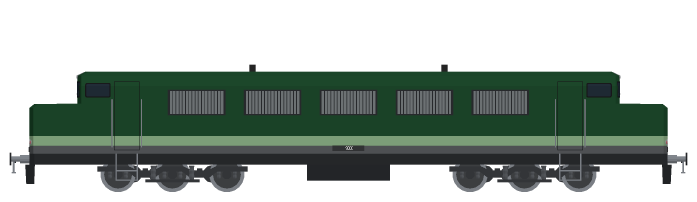
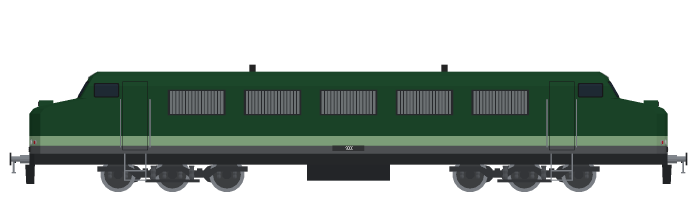
UK trains: tell the Class 55, 37 and 47 fronts apart; detail the 1938 stock's body
The Deltic gets a short nose sloping down to a rounded front, a headcode box on
its brow and a windscreen leaning well back; the Class 37 a longer square bonnet,
flat on top, with its centre headcode box and an almost upright windscreen; the
Class 47 the headcode panel in the cab roof's dome. The cab door and side window
move back with a set-back cab. The 1938 tube stock gets polished window frames,
the rain strip under the roof's edge and the roof's panel seams.

Claude-Session: https://claude.ai/code/session_01BW4qmT9yGyhFhcNpQBBkWX

diff --git a/generator/ukLocos.ts b/generator/ukLocos.ts
@@ -5,8 +5,8 @@
 
 import type { MeshBuilder } from "./meshBuilder.ts";
 import type { ParamValues, ProceduralDesign } from "./design.ts";
-import { boxLocoLod, buildBoxLoco } from "./boxLocoKit.ts";
-import { c } from "./czElectricKit.ts";
+import { boxLocoLod, buildBoxLoco, type EndItem, type LocoSpec, type RoofBox, type SideItem, type Table } from "./boxLocoKit.ts";
+import { c, lerpTable } from "./czElectricKit.ts";
 import { DIESEL_LOCO_CATALOG, ELECTRIC_LOCO_CATALOG } from "./cd163.ts";
 import { liveryParams, liverySpec, locoGame, paramsOf, type Liveries } from "./frLocos.ts";
 import type { WorldLoco } from "./worldLocoKit.ts";
@@ -25,7 +25,7 @@ const bands = (body: Body, number: string, ...list: Array<[number, string]>): Wo
 const GREEN = "#1f4d2e", LIGHT_GREEN = "#8fb48a", BR_BLUE = "#1d3f80";
 
 const C55: Body = { length: 21.18, W: 1.36, y0: 1.2, roof: 3.76, nose: "bonnets", bonnet: 1.5, hoodTop: 2.75, bogies: coCo(5.5, 1.7, 0.55), exhausts: [-3.0, 3.0], room: { kind: "grilles", n: 5, y: [2.4, 3.2] } };
-const C37: Body = { length: 18.75, W: 1.36, y0: 1.2, roof: 3.76, nose: "bonnets", bonnet: 1.8, hoodTop: 2.8, bogies: coCo(4.9, 1.75, 0.55), exhausts: [0], room: { kind: "grilles", n: 4, y: [2.4, 3.2] } };
+const C37: Body = { length: 18.75, W: 1.36, y0: 1.2, roof: 3.76, nose: "bonnets", bonnet: 2.05, hoodTop: 2.8, bogies: coCo(4.9, 1.75, 0.55), exhausts: [0], room: { kind: "grilles", n: 4, y: [2.4, 3.2] } };
 const C47: Body = { length: 19.38, W: 1.36, y0: 1.2, roof: 3.76, nose: "raked", bogies: coCo(5.25, 1.75, 0.57), exhausts: [-1.0], room: { kind: "grilles", n: 5, y: [2.4, 3.2] } };
 const C66: Body = { length: 21.35, W: 1.36, y0: 1.2, roof: 3.76, nose: "raked", bogies: coCo(5.6, 1.8, 0.53), exhausts: [-1.2], room: { kind: "grilles", n: 5, y: [2.4, 3.2] } };
 const C86: Body = { length: 17.83, W: 1.36, y0: 1.25, roof: 3.85, nose: "flat", bogies: [[-4.6, [-1.45, 1.45], 0.58], [4.6, [-1.45, 1.45], 0.58]], pantograph: "singleArm", pantographX: 4.3, room: { kind: "grilles", n: 4, y: [2.4, 3.2] } };
@@ -38,9 +38,87 @@ const L: Record<string, Liveries> = {
   c86: { brBlue: { title: "BR blue", loco: bands(C86, "86 101", [4.2, BR_BLUE]) }, intercity: { title: "InterCity", loco: bands(C86, "86 229", [1.75, "#3a3d40"], [1.85, "#c8102e"], [2.7, "#f1f1ee"], [4.2, "#3a3d40"]) } },
 };
 
+/**
+ * The three cab fronts drawn apart (the kit's bonnet and raked ends are one shape
+ * each): the Deltic's short nose sloping down to a rounded front, a headcode box
+ * on its brow and the windscreen leaning well back; the Class 37's long square
+ * bonnet, flat on top with a rounded front edge, its centre headcode box at the
+ * front and the windscreen almost upright; the Class 47's raked end with the
+ * headcode panel in the cab roof's dome over the windscreen.
+ */
+interface Front {
+  /** The end's centre line from the frame's |x| N, the shell's bottom y0 and the roof. */
+  tip: (N: number, y0: number, roof: number) => Table;
+  /** The end's plan below the bonnet's top (default the kit's). */
+  bonnetPlan?: { top: number; plan: (w: number) => ReadonlyArray<readonly [number, number]> };
+  /** Boxes on the bonnet at both ends, in the body's top colour. */
+  boxes?: (N: number, body: string) => RoofBox[];
+  /** End items replacing the kit's top headlight. */
+  brow?: (spec: LocoSpec) => EndItem[];
+}
+
+const box = (name: string, x0: number, x1: number, w: number, y: readonly [number, number], mat: string): RoofBox[] =>
+  [{ name, x: [x0, x1], w: [w, w * 0.94], y, mat }, { name: `${name} rear`, x: [-x1, -x0], w: [w, w * 0.94], y, mat }];
+
+/** Where a bonnet's cab front stands, from the frame's |x|. */
+const cabOf = (N: number, b: Body) => N - (b.bonnet ?? 1.6);
+
+const FRONTS: Record<string, Front> = {
+  c55: {
+    tip: (N, y0, roof) => {
+      const top = C55.hoodTop!, cab = cabOf(N, C55);
+      return [[y0, N], [top - 0.3, N], [top - 0.15, N - 0.12], [top - 0.07, N - 0.3], [top + 0.17, cab + 0.05], [top + 0.19, cab], [roof - 0.15, cab - 0.38], [roof, cab - 0.62]];
+    },
+    bonnetPlan: { top: C55.hoodTop! + 0.18, plan: (w) => [[0, 0], [w * 0.62, 0.09], [w, 0.34]] },
+    boxes: (N, body) => [...box("headcode box", N - 0.75, N - 0.3, 0.5, [2.5, 2.86], body), ...box("headcode glass", N - 0.31, N - 0.27, 0.4, [2.69, 2.82], "plate")],
+  },
+  c37: {
+    tip: (N, y0, roof) => {
+      const top = C37.hoodTop!, cab = cabOf(N, C37);
+      return [[y0, N], [top - 0.2, N], [top - 0.06, N - 0.07], [top, N - 0.2], [top + 0.01, cab], [roof - 0.15, cab - 0.1], [roof, cab - 0.35]];
+    },
+    bonnetPlan: { top: C37.hoodTop! + 0.005, plan: (w) => [[0, 0], [w * 0.8, 0.04], [w, 0.2]] },
+    boxes: (N, body) => [...box("headcode box", N - 0.62, N - 0.17, 0.55, [C37.hoodTop! - 0.05, C37.hoodTop! + 0.3], body), ...box("headcode glass", N - 0.18, N - 0.14, 0.44, [C37.hoodTop! + 0.03, C37.hoodTop! + 0.24], "plate")],
+  },
+  c47: {
+    tip: (N, y0, roof) => [[y0, N], [y0 + (roof - y0) * 0.4, N], [roof - 0.3, N - 0.5], [roof - 0.1, N - 0.72], [roof, N - 1.0]],
+    brow: (spec) => {
+      const head = Math.max(...spec.endItems.filter((i) => i.kind === "window").map((i) => i.y[1]));
+      return [{ kind: "paint", name: "headcode panel", z: [-0.42, 0.42], y: [head + 0.06, head + 0.27], mat: "plate", layer: 1 }];
+    },
+  },
+};
+
+/** The wall's end at height y: the tip less the plan's corner setback. */
+const wallAt = (s: LocoSpec, y: number) => {
+  const plan = s.endPlan(y, lerpTable(s.hw, y));
+  return lerpTable(s.tip, y) - plan[plan.length - 1]![1];
+};
+
+/** A spec with its own cab front; the cab door and side window move back until they stay on the side wall. */
+function withFront(spec: LocoSpec, f: Front | undefined): LocoSpec {
+  if (!f) return spec;
+  const N = spec.beam, roof = spec.hw[spec.hw.length - 1]![0];
+  const kitPlan = spec.endPlan;
+  const bp = f.bonnetPlan;
+  const out: LocoSpec = {
+    ...spec,
+    tip: f.tip(N, spec.y0, roof),
+    endPlan: bp ? (y, w) => (y < bp.top ? bp.plan(w) : kitPlan(y, w)) : kitPlan,
+    roofItems: [...spec.roofItems, ...(f.boxes?.(N, spec.side[spec.side.length - 1]![2]) ?? [])],
+    endItems: f.brow ? [...spec.endItems.filter((i) => i.name !== "top headlight"), ...f.brow(spec)] : spec.endItems,
+  };
+  const cab = spec.sideItems.filter((i) => i.name === "cab door" || i.name === "cab window");
+  const need = Math.max(0, ...cab.map((i) => i.x[1] + 0.12 - Math.min(...[i.y[0], (i.y[0] + i.y[1]) / 2, i.y[1]].map((y) => wallAt(out, y)))));
+  if (need > 0) out.sideItems = spec.sideItems.map((i): SideItem => (cab.includes(i) ? { ...i, x: [i.x[0] - need, i.x[1] - need] } : i));
+  return out;
+}
+
 const P = Object.fromEntries(Object.entries(L).map(([k, l]) => [k, liveryParams(l)]));
-const b = (k: string, v?: ParamValues): MeshBuilder => buildBoxLoco(liverySpec(L[k]!, P[k]!, v));
-const lod = (k: string, v?: ParamValues): MeshBuilder => boxLocoLod(liverySpec(L[k]!, P[k]!, v));
+/** A UK locomotive's box-loco spec, its own cab front applied (c55, c37, c47, c66, c86). */
+export const ukLocoSpec = (k: string, v?: ParamValues): LocoSpec => withFront(liverySpec(L[k]!, P[k]!, v), FRONTS[k]);
+const b = (k: string, v?: ParamValues): MeshBuilder => buildBoxLoco(ukLocoSpec(k, v));
+const lod = (k: string, v?: ParamValues): MeshBuilder => boxLocoLod(ukLocoSpec(k, v));
 
 export function brClass55(v?: ParamValues): MeshBuilder { return b("c55", v); }
 export function brClass55Lod(v?: ParamValues): MeshBuilder { return lod("c55", v); }

diff --git a/test/ukLocoFronts.test.ts b/test/ukLocoFronts.test.ts
@@ -1,0 +1,55 @@
+// The British diesels' own cab fronts (generator/ukLocos.ts FRONTS): the Class 55
+// Deltic's short sloping nose and raked windscreen, the Class 37's long square
+// bonnet, both with headcode boxes, and the Class 47's raked end with the headcode
+// panel over its windscreen; the cab door and side window stay on the side wall.
+// See docs/models/uk-trains.md.
+import { describe, expect, it } from "vitest";
+import { ukLocoSpec } from "../generator/ukLocos";
+import { lerpTable } from "../generator/czElectricKit";
+import type { LocoSpec } from "../generator/boxLocoKit";
+
+const roofOf = (s: LocoSpec) => s.hw[s.hw.length - 1]![0];
+/** How far the end's centre line at height y stands back from the buffer beam. */
+const back = (s: LocoSpec, y: number) => s.beam - lerpTable(s.tip, y);
+const wallAt = (s: LocoSpec, y: number) => {
+  const plan = s.endPlan(y, lerpTable(s.hw, y));
+  return lerpTable(s.tip, y) - plan[plan.length - 1]![1];
+};
+
+describe("British diesel cab fronts", () => {
+  const c55 = ukLocoSpec("c55"), c37 = ukLocoSpec("c37"), c47 = ukLocoSpec("c47");
+
+  it("gives the Class 37 a longer bonnet than the Deltic, and the Deltic the more raked windscreen", () => {
+    const cab = (s: LocoSpec) => back(s, 3.1);
+    expect(cab(c37)).toBeGreaterThan(cab(c55) + 0.4);
+    const rake = (s: LocoSpec) => back(s, roofOf(s) - 0.2) - back(s, 3.0);
+    expect(rake(c55)).toBeGreaterThan(0.25);
+    expect(rake(c37)).toBeLessThan(0.15);
+  });
+
+  it("slopes the Deltic's bonnet down to the front and keeps the Class 37's flat", () => {
+    // the Deltic's top falls across the bonnet; the 37's stays at one height to the rounded edge
+    expect(lerpTable(c55.tip, 2.8)).toBeLessThan(c55.beam - 0.5);
+    expect(lerpTable(c55.tip, 2.8)).toBeGreaterThan(c55.beam - 1.4);
+    expect(back(c37, 2.79)).toBeLessThan(0.25);
+    expect(back(c37, 2.82)).toBeGreaterThan(2.0);
+  });
+
+  it("puts a headcode box on each bonnet at both ends, and the panel over the Class 47's windscreens", () => {
+    for (const s of [c55, c37]) {
+      const boxes = s.roofItems.filter((r) => r.name.startsWith("headcode box"));
+      expect(boxes.map((r) => Math.sign(r.x[0])).sort()).toEqual([-1, 1]);
+    }
+    expect(c47.endItems.some((i) => i.name === "headcode panel")).toBe(true);
+    expect(c47.endItems.some((i) => i.name === "top headlight")).toBe(false);
+  });
+
+  it("keeps the cab door and side window on the side wall in every livery", () => {
+    for (const [k, liveries] of [["c55", ["twoToneGreen", "brBlue"]], ["c37", ["green", "brBlue", "railfreight"]], ["c47", ["twoToneGreen", "brBlue", "intercity"]]] as const)
+      for (const livery of liveries) {
+        const s = ukLocoSpec(k, { livery });
+        for (const it of s.sideItems.filter((i) => i.name === "cab door" || i.name === "cab window"))
+          for (const y of [it.y[0], (it.y[0] + it.y[1]) / 2, it.y[1]]) expect(it.x[1], `${k} ${livery} ${it.name}`).toBeLessThanOrEqual(wallAt(s, y) - 0.12 + 1e-9);
+      }
+  });
+});

diff --git a/generator/lu1938Parts.ts b/generator/lu1938Parts.ts
@@ -104,6 +104,39 @@ function cabFront(m: MeshBuilder, b: SliceBody, X: (d: number) => number): void 
   });
 }
 
+/** The frame strips' width around a window, and the rain strip under the shoulder. */
+const FRAME = 0.035;
+const GUTTER = [2.265, 2.295] as const;
+/** The roof's transverse panel seams: their pitch and width. */
+const SEAM_PITCH = 1.3, SEAM_W = 0.03;
+
+/**
+ * What breaks up the plain red: a polished frame around every side window, the
+ * rain strip along the side under the roof's edge, and the roof's transverse panel
+ * seams (the photographs in assets/lu-1938-stock/).
+ */
+function bodyDetail(m: MeshBuilder, b: SliceBody, X: (d: number) => number, car: { end: boolean; length: number }): void {
+  const [y0, y1] = TUBE_WINDOW;
+  const windows = (car.end ? TUBE_LAYOUT.end : TUBE_LAYOUT.middle).windows;
+  const front = car.end ? 0.25 : 0.2, back = car.length - 0.2;
+  for (const s of [1, -1]) {
+    m.scope("window frames", () => {
+      for (const [d0, d1] of windows)
+        for (const [a, e, v0, v1] of [[d0 - FRAME, d1 + FRAME, y1, y1 + FRAME], [d0 - FRAME, d1 + FRAME, y0 - FRAME, y0], [d0 - FRAME, d0, y0, y1], [d1, d1 + FRAME, y0, y1]] as const)
+          sidePanel(m, b, X, s, "winFrame", a, e, v0, v1, 0.005, 0.012);
+    });
+    m.scope("rain strip", () => sidePanel(m, b, X, s, "gutter", front, back, GUTTER[0], GUTTER[1], 0.012, 0.02));
+    m.scope("roof seams", () => {
+      const n = Math.floor((back - front) / SEAM_PITCH);
+      const start = (front + back - (n - 1) * SEAM_PITCH) / 2;
+      for (let i = 0; i < n; i++) {
+        const d = start + i * SEAM_PITCH;
+        crownPane(m, b, X, s, "seam", [d - SEAM_W / 2, d + SEAM_W / 2], [0, b.w(d) * 0.97], 0.003);
+      }
+    });
+  }
+}
+
 /** The fittings of a car: the cab front and cab side doors on the driving car, the underfloor equipment on both. */
 export function tubeFittings(m: MeshBuilder, b: SliceBody, X: (d: number) => number, car: { end: boolean; length: number; trucks: readonly number[] }): void {
   if (car.end) {
@@ -116,6 +149,7 @@ export function tubeFittings(m: MeshBuilder, b: SliceBody, X: (d: number) => num
       }
     });
   }
+  m.scope("body detail", () => bodyDetail(m, b, X, car));
   m.scope("underfloor", () => {
     // control and resistance boxes between the bogies: the 1938 Stock's equipment is all under the floor
     const c = car.length / 2;

diff --git a/test/lu1938.test.ts b/test/lu1938.test.ts
@@ -3,6 +3,7 @@
 import { describe, expect, it } from "vitest";
 import { lu1938Stock, TUBE1938 } from "../generator/ukUnits";
 import { TUBE_LAYOUT } from "../generator/lu1938Parts";
+import { collectTriangles, parseGlb } from "../generator/glbTriangles";
 
 const bounds = (pos: number[]) => {
   const lo = [Infinity, Infinity, Infinity], hi = [-Infinity, -Infinity, -Infinity];
@@ -49,5 +50,14 @@ describe("London 1938 Stock", () => {
       expect(m.triangleCount()).toBeLessThanOrEqual(16000);
     }
     expect(TUBE1938.centredBogies).toBe(true);
+  });
+
+  it("breaks up the plain red: window frames, the rain strip and the roof's panel seams on every car", () => {
+    for (const unit of ["endCar", "middleCar"]) {
+      const { json, bin } = parseGlb(lu1938Stock({ unit }).toGlb("tube"));
+      const mats = new Map<string, number>();
+      for (const t of collectTriangles(json, bin)) mats.set(t.material, (mats.get(t.material) ?? 0) + 1);
+      for (const mat of ["winFrame", "gutter", "seam"]) expect(mats.get(mat) ?? 0, `${unit} ${mat}`).toBeGreaterThan(0);
+    }
   });
 });

diff --git a/generator/ukUnits.ts b/generator/ukUnits.ts
@@ -165,7 +165,7 @@ export const TUBE1938: ShinkansenSeries = {
       palette: {
         ltRed: c("#c3161c", 0.35), ltRoof: c("#8c3a30", 0.7), skirtG: c("#232426", 0.8), cabMask: c("#1d1f22", 0.3),
         lettering: c("#c9a24a", 0.35), blind: c("#f1efe6", 0.5), lineMagenta: c("#c0267e"), lineBlue: c("#1c2f6e"),
-        vent: c("#5e2620", 0.7), step: c("#b9b6ae", 0.5), underBox: c("#3a3c3f", 0.8),
+        vent: c("#5e2620", 0.7), winFrame: c("#b4b7b9", 0.3), gutter: c("#4a1512", 0.6), seam: c("#6e2b23", 0.75), step: c("#b9b6ae", 0.5), underBox: c("#3a3c3f", 0.8),
       },
     },
   },

diff --git a/docs/models/uk-trains.md b/docs/models/uk-trains.md
@@ -1,7 +1,7 @@
 # The United Kingdom's trains
 
 **Covers** - the twenty British designs of the eight-country plan and London Overground's Class 378 Capitalstar (a draft), at their real size on the W6a gauge (`uk`): the InterCity 125 and 225, the Class 800 IET and the Class 390 Pendolino, the Eurostar e300, the Class 158 and the Class 142 Pacer, London's 1938 tube stock; the Class 55 Deltic, 37, 47, 66 and 86; the LNER A4 and A3, the GWR Castle, the LMS Black Five, the BR 9F and Stephenson's Rocket; the BR Mk1 coach. Their kits, figures, deviations and tests.
-**Code** - `generator/ukUnits.ts` (`UK_UNITS`), `generator/brClass142.ts` (the Pacer's cars), `generator/brClass158.ts` (the Class 158's cars), `generator/lu1938Parts.ts`, `generator/ukLocos.ts` (`UK_LOCOS`), `generator/loadingGauge.ts` (`uk`), `generator/worldLocoKit.ts` (the `bonnets` nose), `generator/worldSteamLocos.ts`, `generator/rocket.ts`, `generator/worldCoaches.ts`, `test/worldTrains.test.ts`, `test/lu1938.test.ts`, `test/ukPowerCars.test.ts`, `test/rocket.test.ts`, `test/brClass142.test.ts`, `test/brClass158.test.ts`, `test/brClass378.test.ts`, `assets/br-*/`, `assets/lner-*/`, `assets/gwr-castle/`, `assets/lms-black-five/`, `assets/lu-1938-stock/`, `assets/eurostar-373/`, `assets/rocket/`, `assets/br-class-378/`
+**Code** - `generator/ukUnits.ts` (`UK_UNITS`), `generator/brClass142.ts` (the Pacer's cars), `generator/brClass158.ts` (the Class 158's cars), `generator/lu1938Parts.ts`, `generator/ukLocos.ts` (`UK_LOCOS`), `generator/loadingGauge.ts` (`uk`), `generator/worldLocoKit.ts` (the `bonnets` nose), `generator/worldSteamLocos.ts`, `generator/rocket.ts`, `generator/worldCoaches.ts`, `test/worldTrains.test.ts`, `test/lu1938.test.ts`, `test/ukPowerCars.test.ts`, `test/ukLocoFronts.test.ts`, `test/rocket.test.ts`, `test/brClass142.test.ts`, `test/brClass158.test.ts`, `test/brClass378.test.ts`, `assets/br-*/`, `assets/lner-*/`, `assets/gwr-castle/`, `assets/lms-black-five/`, `assets/lu-1938-stock/`, `assets/eurostar-373/`, `assets/rocket/`, `assets/br-class-378/`
 **See also** - [loading-gauge.md](loading-gauge.md), [shinkansen.md](shinkansen.md), [world-locos.md](world-locos.md), [world-steam.md](world-steam.md), [world-coaches.md](world-coaches.md)
 
 The catalog had no British train before; the archived webapp Eurostar is now the
@@ -110,9 +110,29 @@ down to it with the fan vent on the dome: the centre door between two windscreen
 number box (747) on it and the car letter beside it, the destination blind and the marker
 and tail lamps on the left seen from ahead, grab handles on stand-offs, the headstock and
 step under it and the coupler under the floor at 0.45 m. All the equipment hangs under the
-floor between the bogies, as the type introduced. About 9,700 triangles the driving car,
-8,900 the trailer. `test/lu1938.test.ts` checks the profile, the domed cab, the layout and
+floor between the bogies, as the type introduced. What keeps the red from reading flat is
+laid on the shell (`bodyDetail`): a polished frame around every side window, the dark rain
+strip along the side just under the roof's edge, and the roof's transverse panel seams every
+1.3 m in a darker oxide. About 10,500 triangles the driving car.
+`test/lu1938.test.ts` checks the profile, the domed cab, the layout, the body detail and
 the budget.
+
+## The diesels' cab fronts
+
+The box locomotive kit draws one shape per nose type, so the Class 55, 37 and 47 would read
+alike; `ukLocos.ts` (`FRONTS`, `withFront`) gives each its own end over the kit's spec:
+
+- **Class 55 Deltic.** A short nose (1.5 m) whose top slopes down from the cab to a front
+  rounded in plan, a headcode box on its brow, and the windscreen leaning well back (0.6 m
+  from the bonnet to the roof).
+- **Class 37.** A long bonnet (2.05 m), flat on top with a rounded front edge and squarer
+  corners, its centre headcode box at the front, and the windscreen almost upright.
+- **Class 47.** The raked end with the four-character headcode panel in the cab roof's dome
+  over the windscreens, in place of the kit's top headlight.
+
+Where a front sets the cab back, the cab door and side window move back with it so they stay
+on the side wall. `test/ukLocoFronts.test.ts` checks the bonnets, the rake, the headcode
+boxes and the cab doors in every livery.
 
 ## The Class 142 Pacer
 
